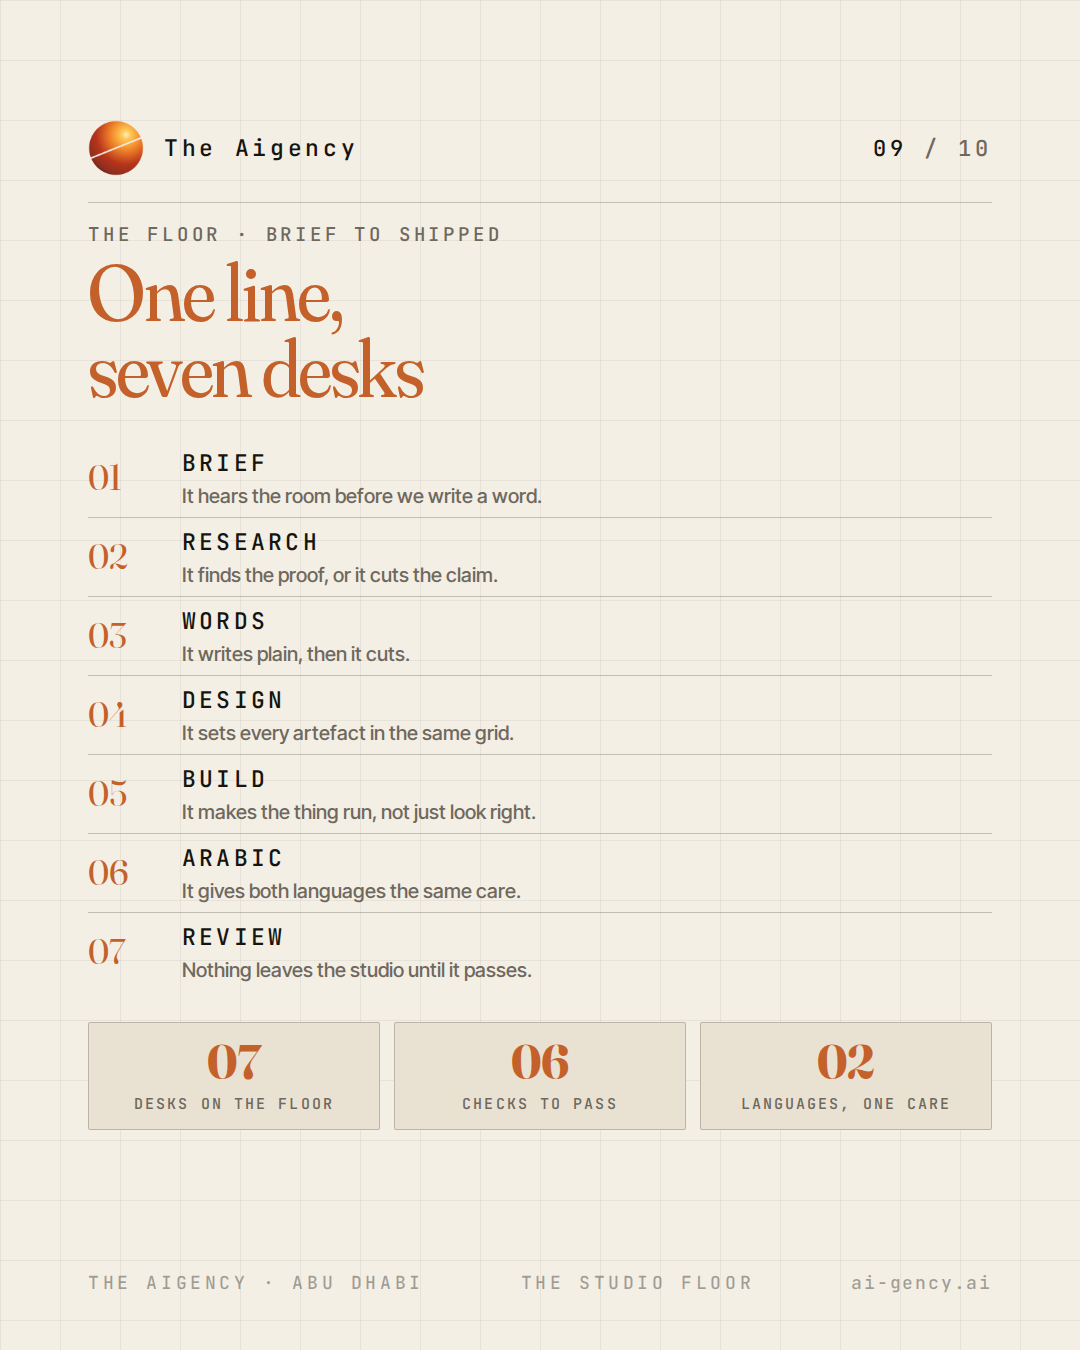
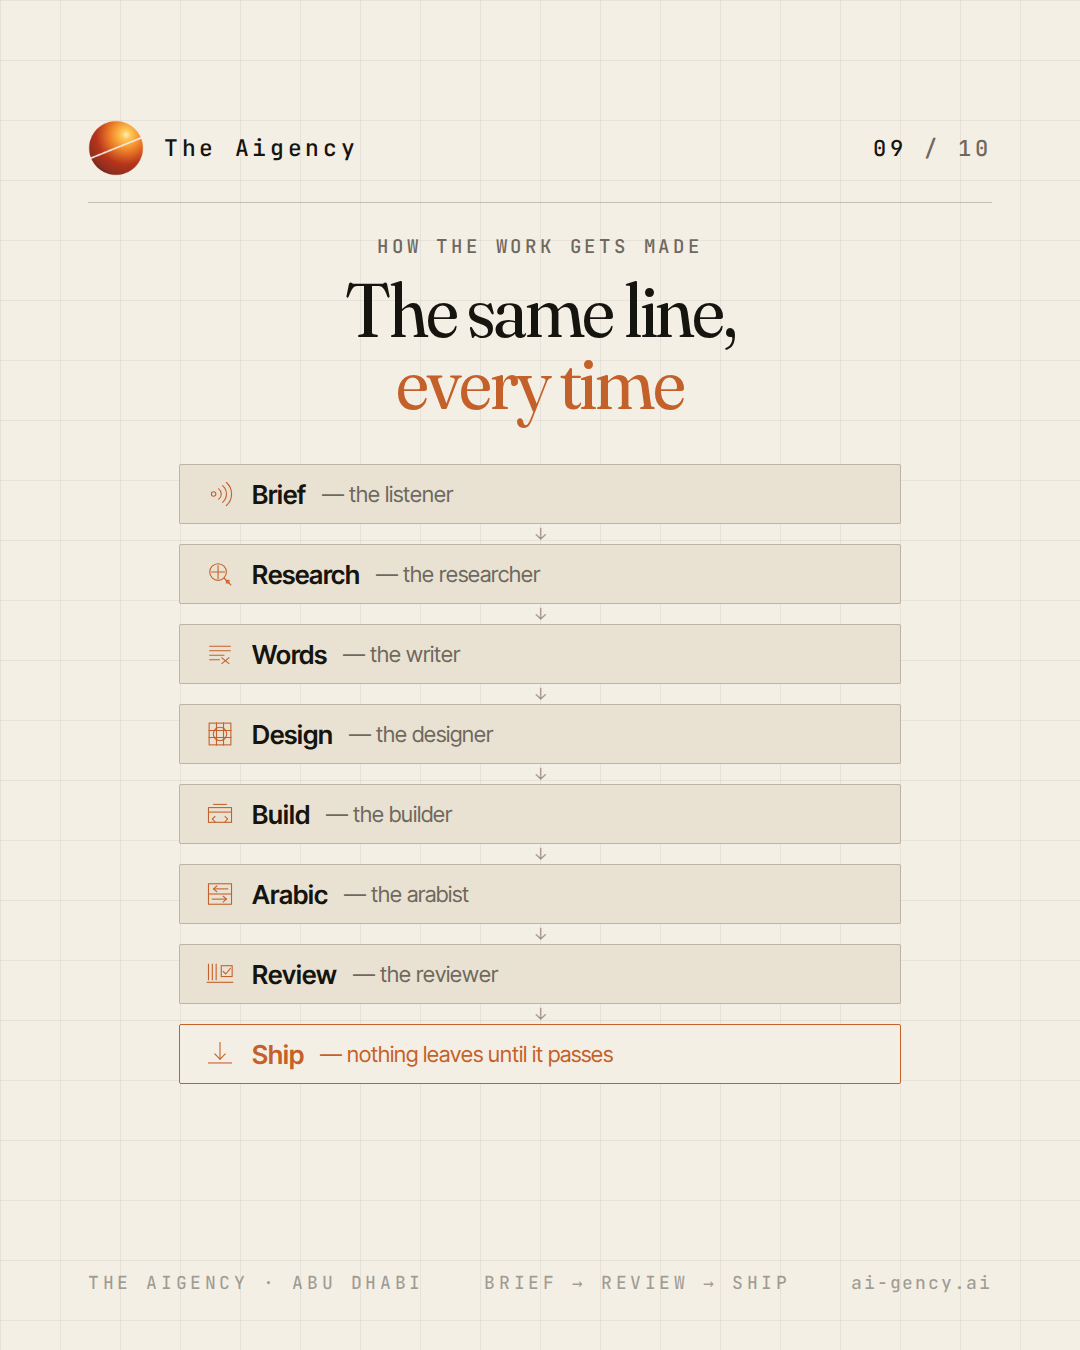
Rework frame 09 as the loop stack
Matches the reference's penultimate frame: centred eyebrow and headline
over one row per desk with hand-off arrows, closing on an accented Ship
row instead of the earlier numbered list and facts strip.

Also thickens the small glyph strokes so the 32px and 58px marks hold
their weight, and lowercases the role names on the loop rows.

Claude-Session: https://claude.ai/code/session_014VX1Gd1AFYeTLLf21NUj2m

diff --git a/aigency-carousel/carousel.html b/aigency-carousel/carousel.html
@@ -444,33 +444,54 @@
     <div class="counter"><b>09</b> / 10</div>
   </div>
   <hr class="rule">
-  <p class="kicker mono sm">The floor · brief to shipped</p>
-  <h2 class="display title">One line,<br>seven desks</h2>
-
-  <div class="floorline">
-    <div class="fl"><div class="n">01</div>
-      <div class="t">BRIEF<em>It hears the room before we write a word.</em></div></div>
-    <div class="fl"><div class="n">02</div>
-      <div class="t">RESEARCH<em>It finds the proof, or it cuts the claim.</em></div></div>
-    <div class="fl"><div class="n">03</div>
-      <div class="t">WORDS<em>It writes plain, then it cuts.</em></div></div>
-    <div class="fl"><div class="n">04</div>
-      <div class="t">DESIGN<em>It sets every artefact in the same grid.</em></div></div>
-    <div class="fl"><div class="n">05</div>
-      <div class="t">BUILD<em>It makes the thing run, not just look right.</em></div></div>
-    <div class="fl"><div class="n">06</div>
-      <div class="t">ARABIC<em>It gives both languages the same care.</em></div></div>
-    <div class="fl"><div class="n">07</div>
-      <div class="t">REVIEW<em>Nothing leaves the studio until it passes.</em></div></div>
+  <div class="loop-head">
+    <p class="mono sm soft">How the work gets made</p>
+    <h2 class="display">The same line,<br><span class="accent">every time</span></h2>
   </div>
 
-  <div class="facts">
-    <div class="fact"><b>07</b><span>desks on the floor</span></div>
-    <div class="fact"><b>06</b><span>checks to pass</span></div>
-    <div class="fact"><b>02</b><span>languages, one care</span></div>
+  <div class="loop">
+    
+      <div class="row"><svg viewBox="0 0 100 100" fill="none" stroke="currentColor" stroke-width="1.7"
+  stroke-linecap="square" stroke-linejoin="miter"><circle cx="30" cy="50" r="7"/>
+    <path d="M46 34a20 20 0 0 1 0 32"/><path d="M58 24a34 34 0 0 1 0 52"/><path d="M70 14a48 48 0 0 1 0 72"/></svg><b>Brief</b>
+        <span>— the listener</span></div>
+      <div class="down">↓</div>
+      <div class="row"><svg viewBox="0 0 100 100" fill="none" stroke="currentColor" stroke-width="1.7"
+  stroke-linecap="square" stroke-linejoin="miter"><circle cx="44" cy="44" r="26"/><path d="M44 24v40M24 44h40"/><path d="M63 63 84 84"/>
+    <rect x="70" y="70" width="8" height="8"/></svg><b>Research</b>
+        <span>— the researcher</span></div>
+      <div class="down">↓</div>
+      <div class="row"><svg viewBox="0 0 100 100" fill="none" stroke="currentColor" stroke-width="1.7"
+  stroke-linecap="square" stroke-linejoin="miter"><path d="M18 26h64M18 40h64M18 54h44M18 68h30"/><path d="M56 62l22 18M78 62 56 80"/></svg><b>Words</b>
+        <span>— the writer</span></div>
+      <div class="down">↓</div>
+      <div class="row"><svg viewBox="0 0 100 100" fill="none" stroke="currentColor" stroke-width="1.7"
+  stroke-linecap="square" stroke-linejoin="miter"><rect x="16" y="16" width="68" height="68"/><path d="M16 39h68M16 61h68M39 16v68M61 16v68"/>
+    <circle cx="50" cy="50" r="21"/></svg><b>Design</b>
+        <span>— the designer</span></div>
+      <div class="down">↓</div>
+      <div class="row"><svg viewBox="0 0 100 100" fill="none" stroke="currentColor" stroke-width="1.7"
+  stroke-linecap="square" stroke-linejoin="miter"><rect x="14" y="30" width="72" height="46"/><path d="M14 44h72"/><path d="M30 20h40"/>
+    <path d="M34 58l-8 8 8 8M66 58l8 8-8 8"/></svg><b>Build</b>
+        <span>— the builder</span></div>
+      <div class="down">↓</div>
+      <div class="row"><svg viewBox="0 0 100 100" fill="none" stroke="currentColor" stroke-width="1.7"
+  stroke-linecap="square" stroke-linejoin="miter"><rect x="14" y="18" width="72" height="64"/><path d="M14 50h72"/>
+    <path d="M74 34H30"/><path d="M40 25l-10 9 10 9"/>
+    <path d="M26 66h44"/><path d="M60 57l10 9-10 9"/></svg><b>Arabic</b>
+        <span>— the arabist</span></div>
+      <div class="down">↓</div>
+      <div class="row"><svg viewBox="0 0 100 100" fill="none" stroke="currentColor" stroke-width="1.7"
+  stroke-linecap="square" stroke-linejoin="miter"><path d="M14 20v48M26 20v48M38 20v48"/><path d="M10 76h80"/>
+    <rect x="54" y="24" width="34" height="34"/><path d="M60 42l8 8 14-17"/></svg><b>Review</b>
+        <span>— the reviewer</span></div>
+      <div class="down">↓</div>
+    <div class="row last"><svg viewBox="0 0 100 100" fill="none" stroke="currentColor" stroke-width="1.7"
+  stroke-linecap="square" stroke-linejoin="miter"><path d="M50 14v52"/><path d="M34 50l16 16 16-16"/><path d="M14 78h72"/></svg><b>Ship</b>
+      <span>— nothing leaves until it passes</span></div>
   </div>
   
-  <div class="foot"><span>The Aigency · Abu Dhabi</span><span>The studio floor</span><span class="lc">ai-gency.ai</span></div>
+  <div class="foot"><span>The Aigency · Abu Dhabi</span><span>Brief → review → ship</span><span class="lc">ai-gency.ai</span></div>
 </section>
 
 <section class="frame night" id="f10">

diff --git a/aigency-carousel/carousel.css b/aigency-carousel/carousel.css
@@ -143,21 +143,22 @@ body{font-family:var(--sans);-webkit-font-smoothing:antialiased}
 .org svg.wires{display:block;width:100%;height:100px}
 .org .desks{display:grid;grid-template-columns:repeat(7,1fr);gap:8px}
 .org .d{text-align:center;color:var(--accent)}
-.org .d svg{width:58px;height:58px}
+.org .d svg{width:58px;height:58px;stroke-width:2.4}
 .org .d b{display:block;margin-top:10px;font-family:var(--mono);font-weight:500;font-size:15px;letter-spacing:.12em;text-transform:uppercase}
 .swipe{margin-top:20px;text-align:center;font-family:var(--serif);font-style:italic;font-size:33px;color:var(--accent)}
 
-/* ---------- floor (frame 09) ---------- */
-.floorline{margin-top:22px;display:flex;flex-direction:column;gap:0;flex:1 1 auto;justify-content:center}
-.fl{display:grid;grid-template-columns:74px 1fr;align-items:center;gap:20px;border-bottom:1px solid var(--hair);padding:9px 0}
-.fl:last-child{border-bottom:0}
-.fl .n{font-family:var(--serif);font-variation-settings:"opsz" 144;font-size:36px;line-height:1.2;color:var(--accent)}
-.fl .t{font-family:var(--mono);font-weight:500;font-size:23px;letter-spacing:.14em;text-transform:uppercase}
-.fl .t em{display:block;font-family:var(--sans);font-style:normal;font-size:20px;letter-spacing:0;text-transform:none;color:var(--soft);margin-top:6px}
-.facts{display:grid;grid-template-columns:repeat(3,1fr);gap:14px;margin-top:20px;flex:0 0 auto}
-.fact{border:1px solid var(--hair);border-radius:2px;padding:15px;text-align:center;background:var(--ground2)}
-.fact b{display:block;font-family:var(--serif);font-variation-settings:"opsz" 144;font-size:48px;line-height:1;color:var(--accent)}
-.fact span{display:block;margin-top:8px;font-family:var(--mono);font-size:15px;letter-spacing:.14em;text-transform:uppercase;color:var(--soft)}
+/* ---------- the loop (frame 09) ---------- */
+.loop-head{margin-top:34px;text-align:center;flex:0 0 auto}
+.loop-head h2{margin-top:18px;font-size:76px}
+.loop{flex:1 1 auto;display:flex;flex-direction:column;align-items:center;justify-content:center;min-height:0}
+.loop .row{width:722px;display:flex;align-items:center;gap:16px;background:var(--ground2);
+  border:1px solid var(--hair);border-radius:2px;padding:13px 24px}
+.loop .row svg{width:32px;height:32px;color:var(--accent);flex:0 0 auto;stroke-width:3.4}
+.loop .row b{font-weight:600;font-size:26px}
+.loop .row span{font-size:22px;color:var(--soft)}
+.loop .down{height:20px;display:flex;align-items:center;color:color-mix(in srgb, var(--type) 40%, transparent);font-size:17px}
+.loop .row.last{background:var(--ground);border-color:var(--accent)}
+.loop .row.last b,.loop .row.last span{color:var(--accent)}
 
 /* ---------- ask (frame 10) ---------- */
 .ask{flex:1 1 auto;display:flex;flex-direction:column;align-items:center;justify-content:center;text-align:center}

diff --git a/aigency-carousel/README.md b/aigency-carousel/README.md
@@ -10,7 +10,7 @@ Frames are **1080 × 1350** (IG 4:5), rendered from HTML so the copy stays edita
 |---|---|---|
 | 01 | Cover — Triple Hook + the seven-desk org chart | night |
 | 02–08 | One desk each: Brief, Research, Words, Design, Build, Arabic, Review | paper |
-| 09 | The floor — all seven in one line | paper |
+| 09 | The loop — brief to ship, one row per desk | paper |
 | 10 | The ask — lockup, handle, contact | night |
 
 ## Build
